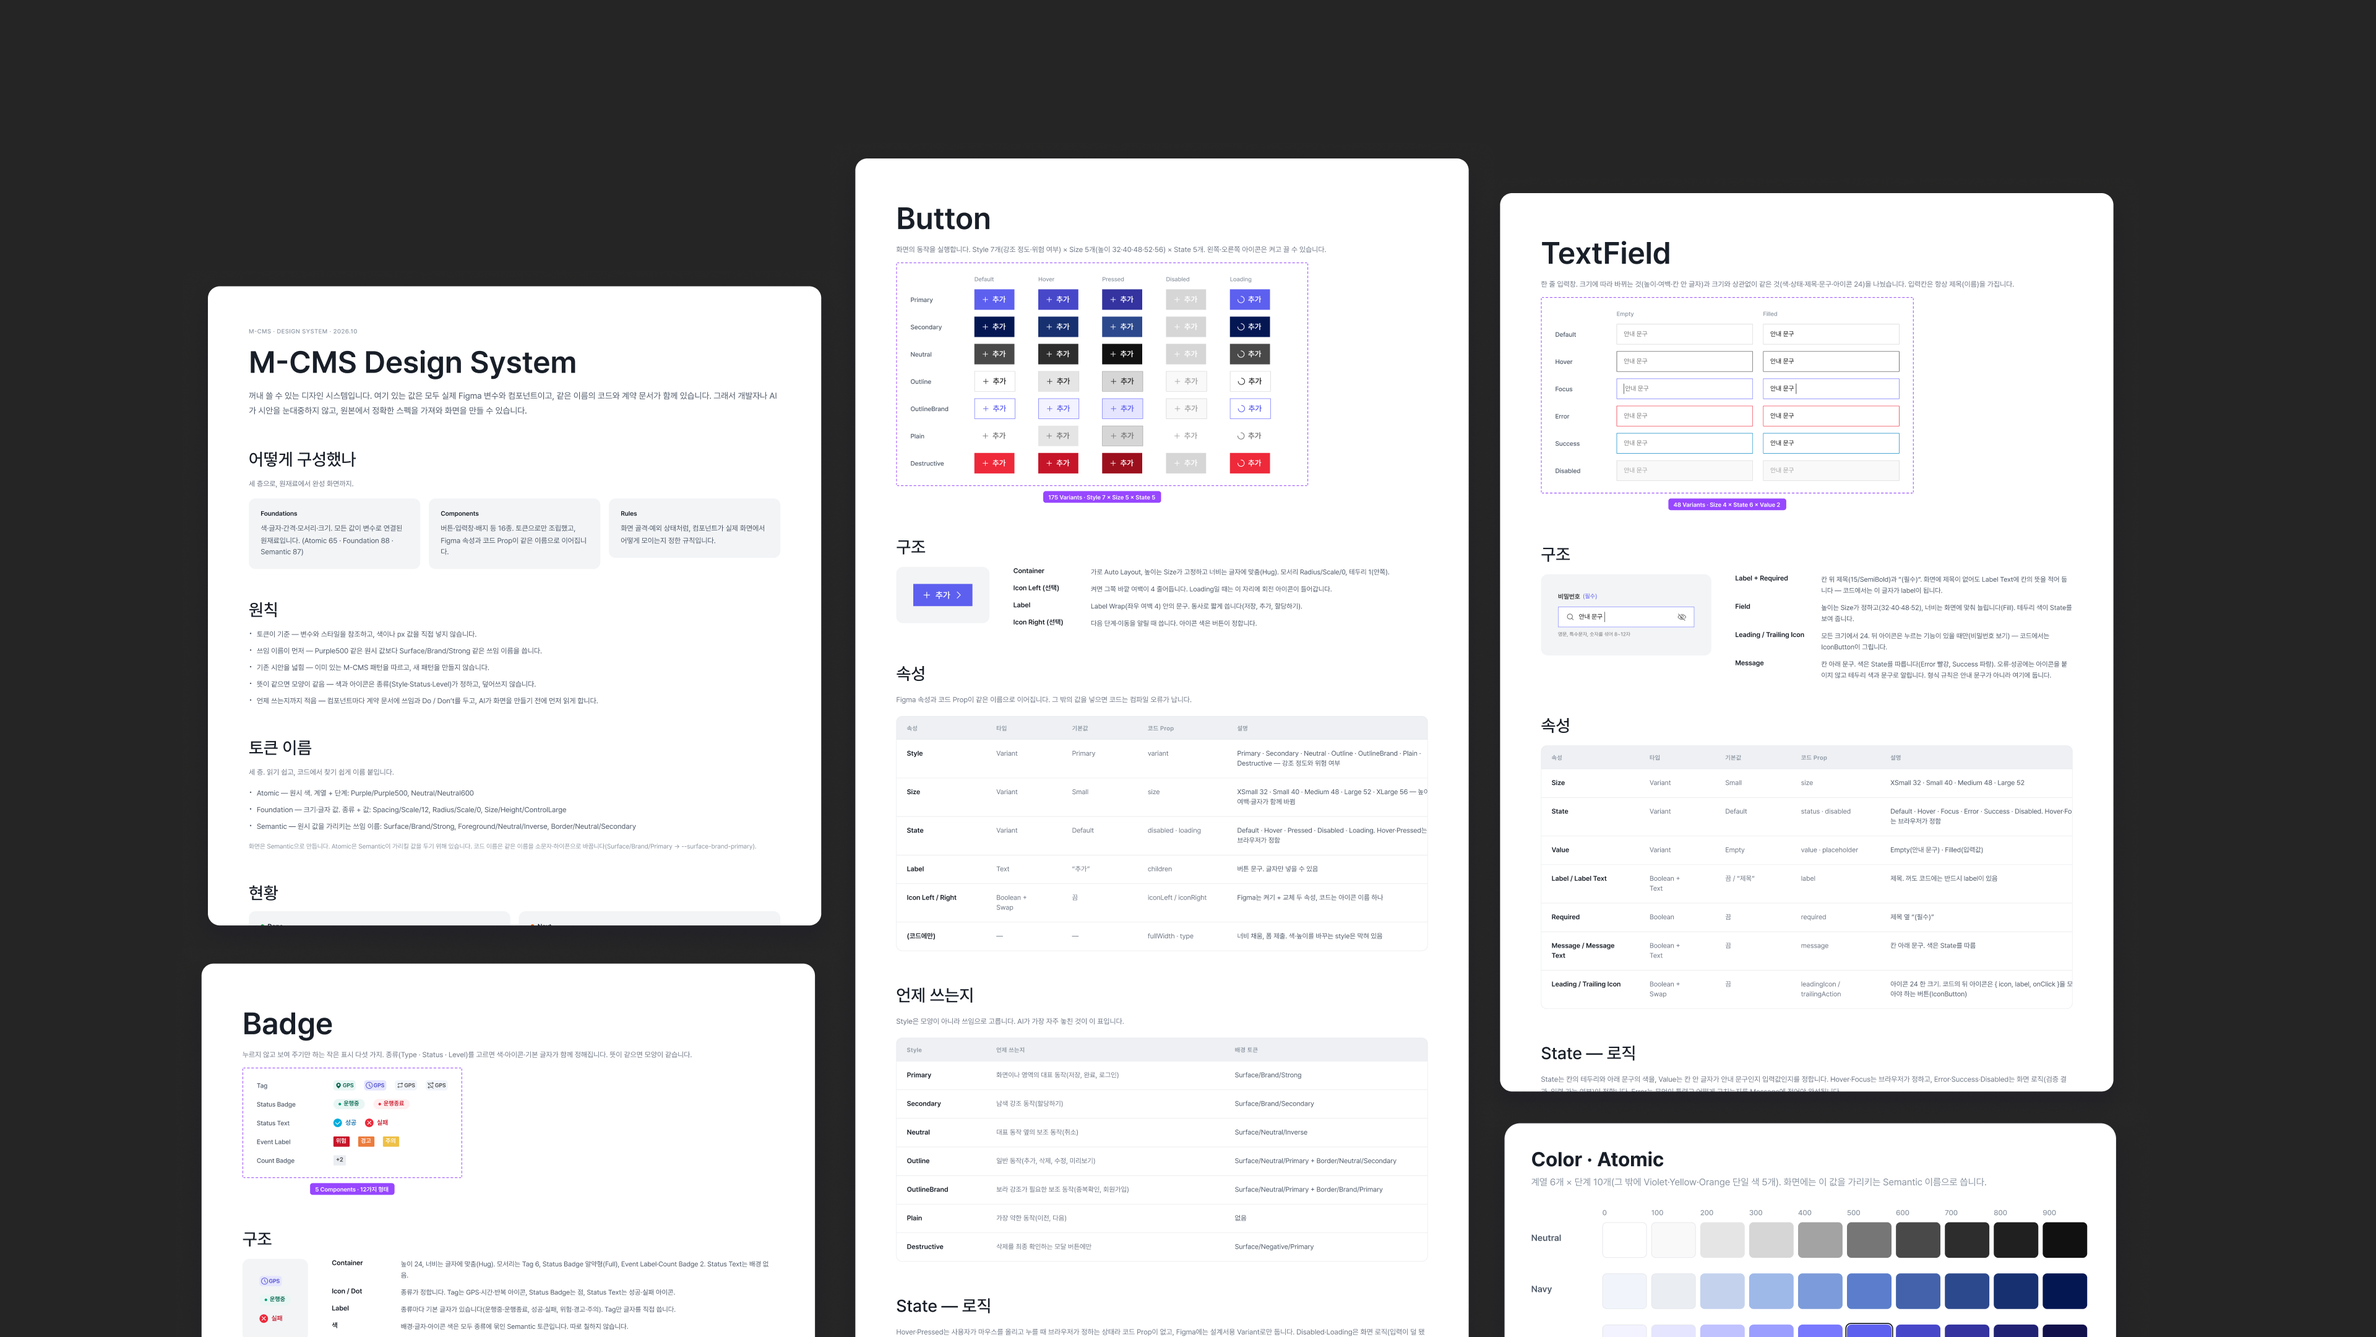
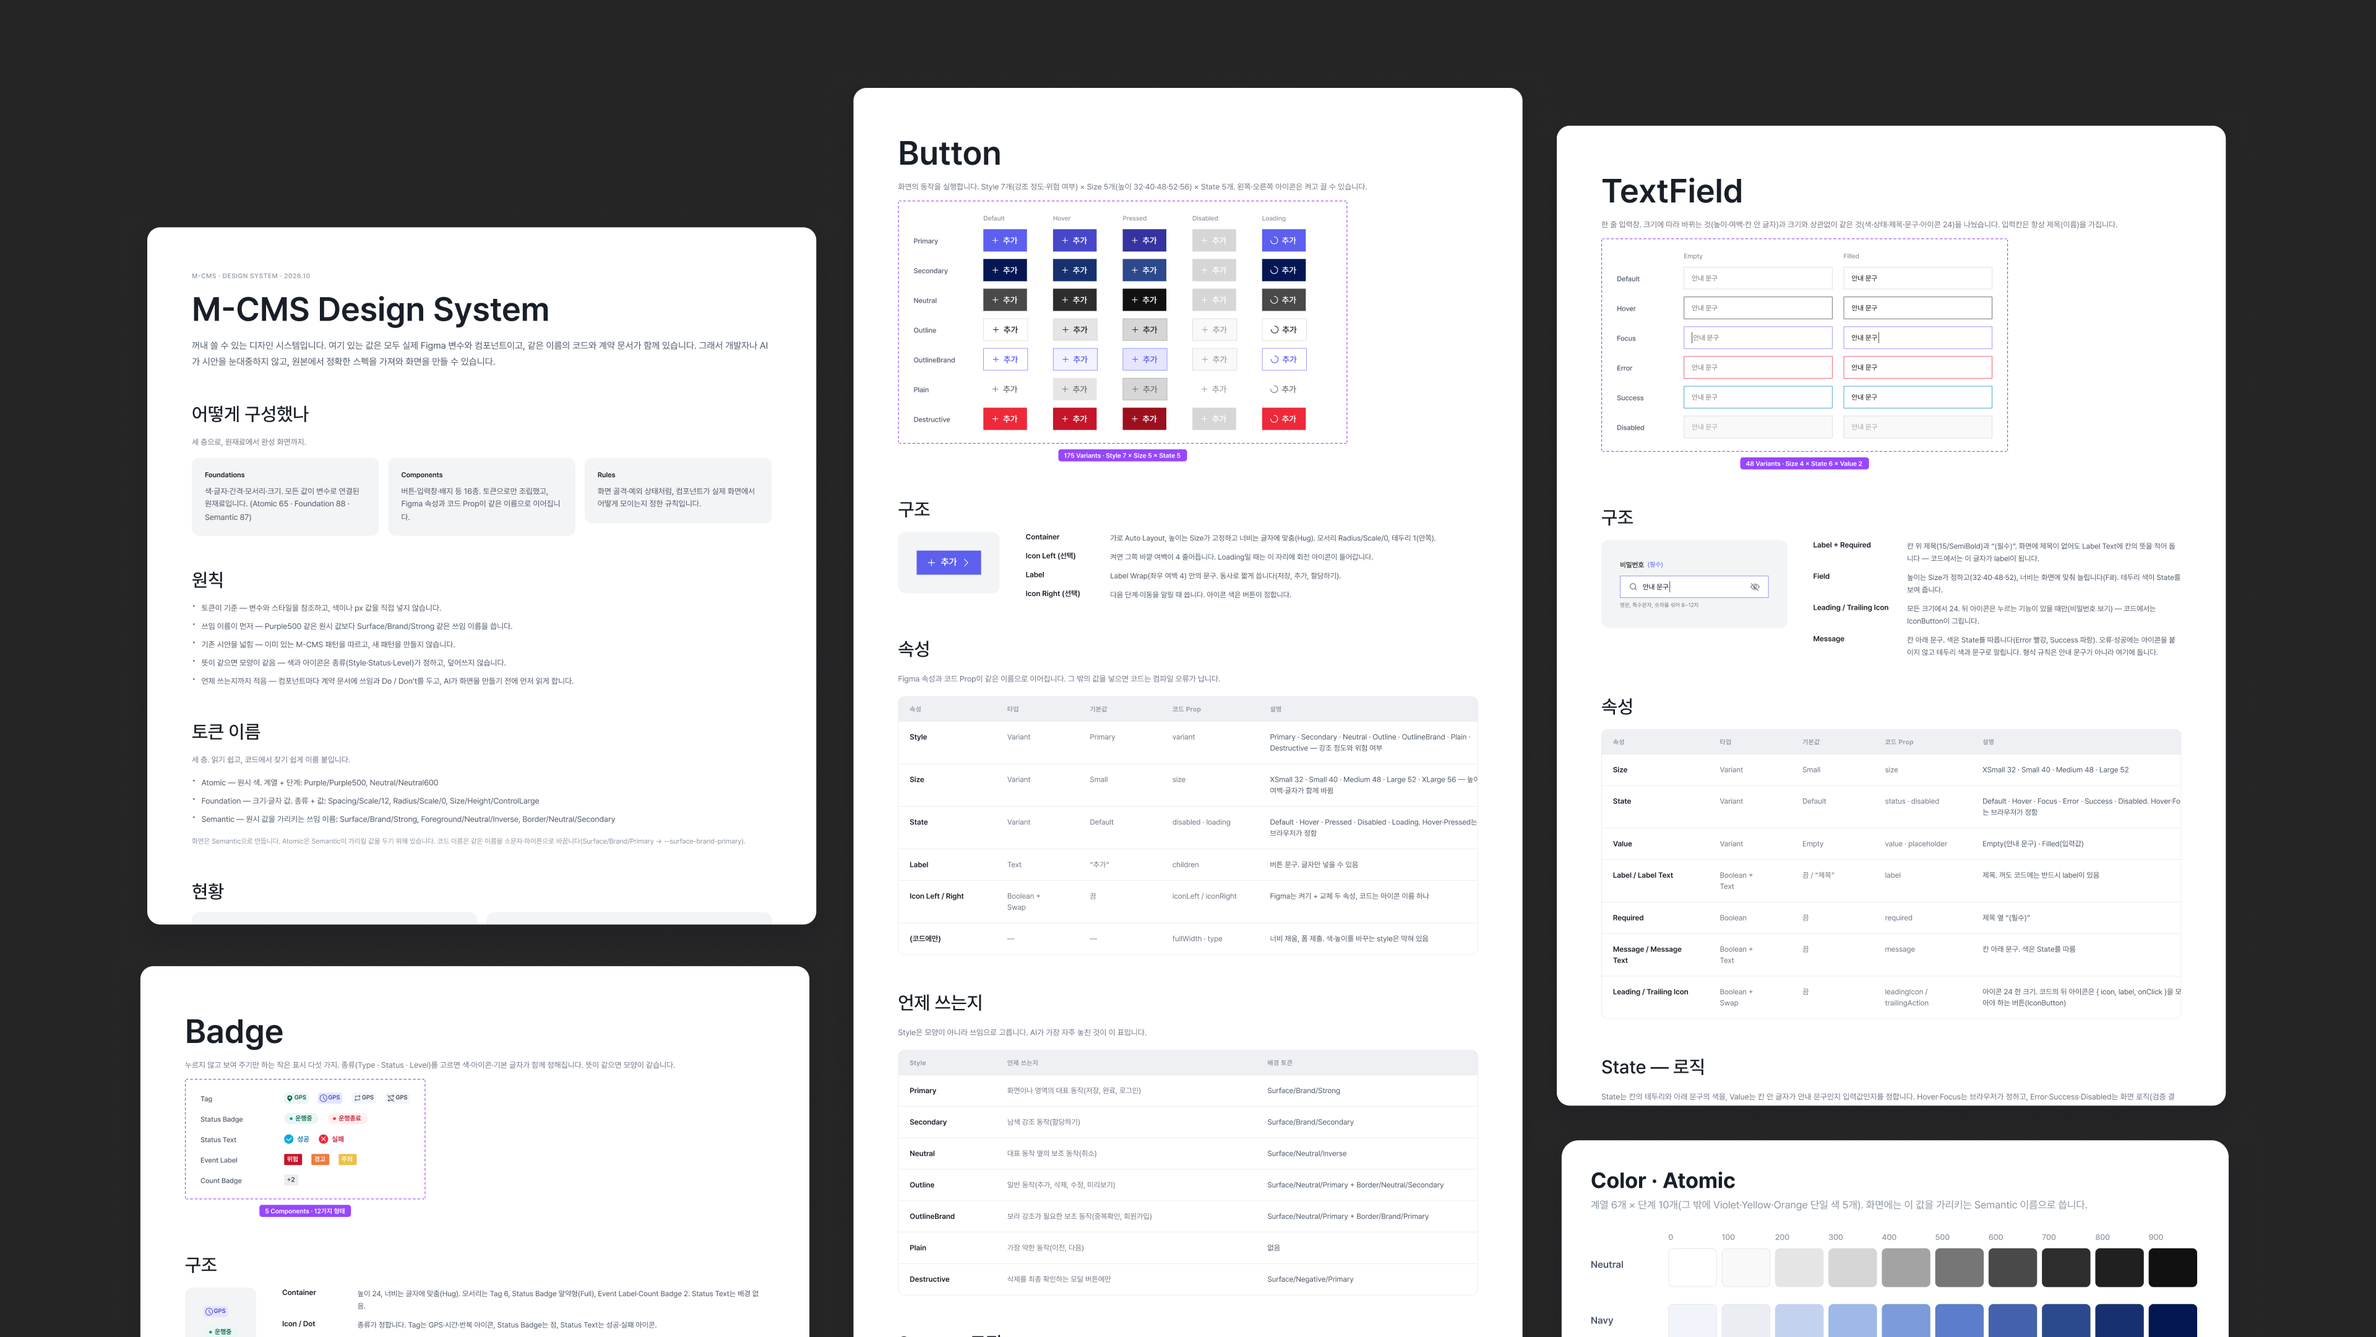
feat: reorder AI Projects category and refresh project cover images
- AI Projects order: 청모픽 → M-CMS 디자인 시스템 AI 최적화 → HCI 칼리지 2기
- Add dedicated cover images for 청모픽, 따릉이, M-CMS, 명언제과점, 스포츠 메타버스
- Fix stray tag on M-CMS entry

diff --git a/work-data.js b/work-data.js
@@ -318,6 +318,81 @@ const WORKS = [
     metrics: [],
   },
   {
+    t: "청모픽 — 청첩장 모임 식당 추천 서비스",
+    cat: "AI Projects",
+    y: "2026",
+    co: "개인 프로젝트",
+    role: "프로덕트 디자이너 (리서치·기획·UX/UI·AI 활용 개발, 데이터 분석 100%)",
+    ty: "모바일 웹 (실서비스)",
+    slug: "chungmopick-restaurant-recommendation",
+    images: [
+      "images/AI_W_restaurant/AI_cover.png",
+      "images/AI_W_restaurant/AI_1.png",
+      "images/AI_W_restaurant/AI_2.png",
+      "images/AI_W_restaurant/AI_3.png",
+      "images/AI_W_restaurant/AI_4.png",
+      "images/AI_W_restaurant/AI_5.png",
+      "images/AI_W_restaurant/AI_6.png",
+      "images/AI_W_restaurant/AI_7.png",
+      "images/AI_W_restaurant/AI_8.png",
+      "images/AI_W_restaurant/AI_9.png",
+    ],
+    sum: "청첩장 모임에 맞는 식당을 추천하는 서비스를 AI로 12일 만에 만들고, 행동 데이터와 인터뷰로 '왜 이 식당인지' 알 수 없는 추천 문제를 찾아 개선했습니다.",
+    tags: ["AI Collaboration", "Mobile Web", "User Research", "Data-Driven"],
+    aiHighlights: [
+      "관계마다 장소 기준이 다른 청첩장 모임 문제를, <span class=\"hl\">기획부터 배포까지 12일 만에 1인으로 만든 MVP</span>로 직접 검증했습니다.",
+      "설문과 다른 실제 행동 데이터를 발견하고, 인터뷰 6명으로 <span class=\"hl\">'추천 이유가 안 보인다'는 진짜 문제</span>를 다시 찾아냈습니다.",
+      "2차 개선에서는 <span class=\"hl\">사진으로 분위기를 고르고 데이터 근거로 추천 이유를 설명</span>하도록 바꿨습니다.",
+    ],
+    facts: [
+      { k: "배경", v: "관계마다 장소 기준이 달라 '내 모임에 맞는 곳인지' 판단하기 어려운 청첩장 모임 식당 선택을 돕는 서비스를 직접 만들었습니다. 사전 설문에서 주최자 15명 중 11명(73.3%)이 <span class=\"hl\">'관계에 따라 기준이 달라진다'</span>고 답했습니다." },
+      { k: "문제", v: "설문에서는 73.3%가 '핵심 조건 먼저, 결과 보며 조정'을 선호했지만, 설문은 선호만 보여준다고 판단해 <span class=\"hl\">8단계 입력 MVP를 그대로 배포해 실제 행동을 관찰</span>했습니다." },
+      { k: "접근방식", v: "PRD 기획부터 추천 로직, 디자인, 배포까지 <span class=\"hl\">Claude와 Claude Code로 12일 만에 1인 개발</span>했습니다. Mixpanel로 계측하고 Vercel로 배포한 뒤, 입력 완료 사용자 6명을 인터뷰해 '질문 수는 괜찮지만 추천 이유를 알 수 없다'는 문제를 재발견했습니다." },
+      { k: "결과", v: "2차 개선에서 <span class=\"hl\">분위기·음식 조건을 사진으로 선택</span>하게 하고, 입력 조건과 식당 데이터를 근거로 '왜 이 식당인지' 설명하는 문구를 추가했습니다. 2차 개선 효과는 아직 측정 전입니다." },
+    ],
+    metrics: [
+      { n: "12일", c: "기획부터 1차 MVP 배포까지" },
+      { n: "79명", c: "조건 입력 시작 사용자 (60.8% 완주)" },
+      { n: "54.7%", c: "결과 확인 후 식당 카드 클릭률" },
+    ],
+  },
+  {
+    t: "M-CMS 디자인 시스템 AI 최적화",
+    cat: "AI Projects",
+    y: "2026",
+    co: "개인 프로젝트",
+    role: "UXUI 디자이너 (문제 정의·시스템 설계·실험 설계 100%, Claude Code 활용)",
+    ty: "디자인 시스템",
+    slug: "mcms-design-system-ai-optimization",
+    images: [
+      "images/AI_DesignSystem/DS_cover.png",
+      "images/AI_DesignSystem/DS_1.png",
+      "images/AI_DesignSystem/DS_2.png",
+      "images/AI_DesignSystem/DS_3.png",
+      "images/AI_DesignSystem/DS_4.png",
+      "images/AI_DesignSystem/DS_5.png",
+      "images/AI_DesignSystem/DS_6.png",
+    ],
+    sum: "개발자가 AI로 만든 신규 화면이 기존 디자인 기준과 어긋나는 문제를 보고, 디자인 토큰과 계약 문서로 AI 협업 기준을 다시 만들어 블라인드 검수 실험으로 효과를 검증했습니다.",
+    tags: ["AI Collaboration", "Design System", "Experiment"],
+    aiHighlights: [
+      "개발자가 AI로 만든 신규 화면이 기존 M-CMS 규칙과 어긋나자, 화면 58개를 전수 측정해 <span class=\"hl\">디자인 토큰 240개·컴포넌트 16종</span>으로 정리했습니다.",
+      "같은 요청문을 세 조건으로 비교한 블라인드 검수에서, <span class=\"hl\">계약 문서를 더하자 통과율이 2/15 → 10/15로 올랐습니다</span>.",
+      "남은 실패의 원인이 <span class=\"hl\">시스템에 없던 '비활성' 상태라는 것까지 찾아내</span> 상태 배지 컴포넌트를 직접 보완했습니다.",
+    ],
+    facts: [
+      { k: "배경", v: "서비스 확장으로 신규 화면 구현이 필요했지만 디자이너 2명 모두 우선순위가 높은 업무 중이었고, 개발팀은 기존 Figma UI를 참고해 <span class=\"hl\">AI로 화면을 먼저 구현</span>했습니다." },
+      { k: "문제", v: "같은 M-CMS 화면인데도 메뉴·버튼·상태 표현이 기존과 달라졌습니다. <span class=\"hl\">사용 기준이 문서로 남아있지 않아</span> 화면마다 다시 검수하고 수정을 요청해야 했고, Figma에는 화면별 적용 기준도 없었습니다." },
+      { k: "접근방식", v: "값 조사 → 컴포넌트 설계 → 제작 → 계약 문서 네 단계를 반복하며, 각 단계마다 <span class=\"hl\">Claude Code가 만든 결과를 직접 승인</span>한 뒤 다음 단계로 넘어갔습니다. 화면 58개의 색·크기 값을 전수 측정해 토큰 240개로 정리하고, 컴포넌트 16종과 계약 문서 15개를 만들었습니다." },
+      { k: "결과", v: "같은 요청문을 A(기존 자료만)·B(+토큰·컴포넌트 코드)·C(+계약 문서) 세 조건으로 비교한 블라인드 검수에서 <span class=\"hl\">통과율이 2/15 → 5/15 → 10/15로 올랐습니다</span>. 남은 실패 3개는 시스템에 없던 '비활성' 상태 때문이었고, 상태 배지 컴포넌트에 이를 추가해 해결했습니다." },
+    ],
+    metrics: [
+      { n: "10/15", c: "계약 문서 조건의 블라인드 검수 통과 (기존 2/15)" },
+      { n: "83%", c: "사용 기준 일치율 (기존 17%)" },
+      { n: "240개", c: "정리된 디자인 토큰 (기존 0개)" },
+    ],
+  },
+  {
     t: "HCI 칼리지 2기 — AI 신뢰 연구",
     cat: "AI Projects",
     y: "2023—2024",
@@ -364,7 +439,8 @@ const WORKS = [
     ty: "모바일",
     slug: "quote-bakery-daily-quote-service",
     images: [
-      "images/quote-bakery-daily-quote-service/01_cover.png",
+      "images/quote-bakery-daily-quote-service/bakery_cover.png",
+      "images/quote-bakery-daily-quote-service/01.png",
       "images/quote-bakery-daily-quote-service/02.png",
       "images/quote-bakery-daily-quote-service/03.png",
       "images/quote-bakery-daily-quote-service/04.png",
@@ -399,6 +475,7 @@ const WORKS = [
     ty: "모바일 (프로토타입)",
     slug: "seoul-bike-ddareungi-renewal",
     images: [
+      "images/Bike/Bike_cover.png",
       "images/Bike/Bike_1.png",
       "images/Bike/Bike_2.png",
       "images/Bike/Bike_3.png",
@@ -423,80 +500,6 @@ const WORKS = [
     metrics: [],
   },
   {
-    t: "M-CMS 디자인 시스템 AI 최적화",
-    cat: "AI Projects",
-    y: "2026",
-    co: "개인 프로젝트",
-    role: "UXUI 디자이너 (문제 정의·시스템 설계·실험 설계 100%, Claude Code 활용)",
-    ty: "디자인 시스템",
-    slug: "mcms-design-system-ai-optimization",
-    images: [
-      "images/AI_DesignSystem/DS_cover.png",
-      "images/AI_DesignSystem/DS_1.png",
-      "images/AI_DesignSystem/DS_2.png",
-      "images/AI_DesignSystem/DS_3.png",
-      "images/AI_DesignSystem/DS_4.png",
-      "images/AI_DesignSystem/DS_5.png",
-      "images/AI_DesignSystem/DS_6.png",
-    ],
-    sum: "개발자가 AI로 만든 신규 화면이 기존 디자인 기준과 어긋나는 문제를 보고, 디자인 토큰과 계약 문서로 AI 협업 기준을 다시 만들어 블라인드 검수 실험으로 효과를 검증했습니다.",
-    tags: ["Side Project", "AI Collaboration", "Design System", "Experiment"],
-    aiHighlights: [
-      "개발자가 AI로 만든 신규 화면이 기존 M-CMS 규칙과 어긋나자, 화면 58개를 전수 측정해 <span class=\"hl\">디자인 토큰 240개·컴포넌트 16종</span>으로 정리했습니다.",
-      "같은 요청문을 세 조건으로 비교한 블라인드 검수에서, <span class=\"hl\">계약 문서를 더하자 통과율이 2/15 → 10/15로 올랐습니다</span>.",
-      "남은 실패의 원인이 <span class=\"hl\">시스템에 없던 '비활성' 상태라는 것까지 찾아내</span> 상태 배지 컴포넌트를 직접 보완했습니다.",
-    ],
-    facts: [
-      { k: "배경", v: "서비스 확장으로 신규 화면 구현이 필요했지만 디자이너 2명 모두 우선순위가 높은 업무 중이었고, 개발팀은 기존 Figma UI를 참고해 <span class=\"hl\">AI로 화면을 먼저 구현</span>했습니다." },
-      { k: "문제", v: "같은 M-CMS 화면인데도 메뉴·버튼·상태 표현이 기존과 달라졌습니다. <span class=\"hl\">사용 기준이 문서로 남아있지 않아</span> 화면마다 다시 검수하고 수정을 요청해야 했고, Figma에는 화면별 적용 기준도 없었습니다." },
-      { k: "접근방식", v: "값 조사 → 컴포넌트 설계 → 제작 → 계약 문서 네 단계를 반복하며, 각 단계마다 <span class=\"hl\">Claude Code가 만든 결과를 직접 승인</span>한 뒤 다음 단계로 넘어갔습니다. 화면 58개의 색·크기 값을 전수 측정해 토큰 240개로 정리하고, 컴포넌트 16종과 계약 문서 15개를 만들었습니다." },
-      { k: "결과", v: "같은 요청문을 A(기존 자료만)·B(+토큰·컴포넌트 코드)·C(+계약 문서) 세 조건으로 비교한 블라인드 검수에서 <span class=\"hl\">통과율이 2/15 → 5/15 → 10/15로 올랐습니다</span>. 남은 실패 3개는 시스템에 없던 '비활성' 상태 때문이었고, 상태 배지 컴포넌트에 이를 추가해 해결했습니다." },
-    ],
-    metrics: [
-      { n: "10/15", c: "계약 문서 조건의 블라인드 검수 통과 (기존 2/15)" },
-      { n: "83%", c: "사용 기준 일치율 (기존 17%)" },
-      { n: "240개", c: "정리된 디자인 토큰 (기존 0개)" },
-    ],
-  },
-  {
-    t: "청모픽 — 청첩장 모임 식당 추천 서비스",
-    cat: "AI Projects",
-    y: "2026",
-    co: "개인 프로젝트",
-    role: "프로덕트 디자이너 (리서치·기획·UX/UI·AI 활용 개발, 데이터 분석 100%)",
-    ty: "모바일 웹 (실서비스)",
-    slug: "chungmopick-restaurant-recommendation",
-    images: [
-      "images/AI_W_restaurant/AI_1.png",
-      "images/AI_W_restaurant/AI_2.png",
-      "images/AI_W_restaurant/AI_3.png",
-      "images/AI_W_restaurant/AI_4.png",
-      "images/AI_W_restaurant/AI_5.png",
-      "images/AI_W_restaurant/AI_6.png",
-      "images/AI_W_restaurant/AI_7.png",
-      "images/AI_W_restaurant/AI_8.png",
-      "images/AI_W_restaurant/AI_9.png",
-    ],
-    sum: "청첩장 모임에 맞는 식당을 추천하는 서비스를 AI로 12일 만에 만들고, 행동 데이터와 인터뷰로 '왜 이 식당인지' 알 수 없는 추천 문제를 찾아 개선했습니다.",
-    tags: ["AI Collaboration", "Mobile Web", "User Research", "Data-Driven"],
-    aiHighlights: [
-      "관계마다 장소 기준이 다른 청첩장 모임 문제를, <span class=\"hl\">기획부터 배포까지 12일 만에 1인으로 만든 MVP</span>로 직접 검증했습니다.",
-      "설문과 다른 실제 행동 데이터를 발견하고, 인터뷰 6명으로 <span class=\"hl\">'추천 이유가 안 보인다'는 진짜 문제</span>를 다시 찾아냈습니다.",
-      "2차 개선에서는 <span class=\"hl\">사진으로 분위기를 고르고 데이터 근거로 추천 이유를 설명</span>하도록 바꿨습니다.",
-    ],
-    facts: [
-      { k: "배경", v: "관계마다 장소 기준이 달라 '내 모임에 맞는 곳인지' 판단하기 어려운 청첩장 모임 식당 선택을 돕는 서비스를 직접 만들었습니다. 사전 설문에서 주최자 15명 중 11명(73.3%)이 <span class=\"hl\">'관계에 따라 기준이 달라진다'</span>고 답했습니다." },
-      { k: "문제", v: "설문에서는 73.3%가 '핵심 조건 먼저, 결과 보며 조정'을 선호했지만, 설문은 선호만 보여준다고 판단해 <span class=\"hl\">8단계 입력 MVP를 그대로 배포해 실제 행동을 관찰</span>했습니다." },
-      { k: "접근방식", v: "PRD 기획부터 추천 로직, 디자인, 배포까지 <span class=\"hl\">Claude와 Claude Code로 12일 만에 1인 개발</span>했습니다. Mixpanel로 계측하고 Vercel로 배포한 뒤, 입력 완료 사용자 6명을 인터뷰해 '질문 수는 괜찮지만 추천 이유를 알 수 없다'는 문제를 재발견했습니다." },
-      { k: "결과", v: "2차 개선에서 <span class=\"hl\">분위기·음식 조건을 사진으로 선택</span>하게 하고, 입력 조건과 식당 데이터를 근거로 '왜 이 식당인지' 설명하는 문구를 추가했습니다. 2차 개선 효과는 아직 측정 전입니다." },
-    ],
-    metrics: [
-      { n: "12일", c: "기획부터 1차 MVP 배포까지" },
-      { n: "79명", c: "조건 입력 시작 사용자 (60.8% 완주)" },
-      { n: "54.7%", c: "결과 확인 후 식당 카드 클릭률" },
-    ],
-  },
-  {
     t: "스포츠 생중계 메타버스 서비스",
     cat: "Side Projects",
     y: "",
@@ -505,6 +508,7 @@ const WORKS = [
     ty: "",
     slug: "sports-live-broadcast-metaverse-service",
     images: [
+      "images/sports-live-broadcast-metaverse-service/Meta_cover.png",
       "images/sports-live-broadcast-metaverse-service/Meta_01.png",
       "images/sports-live-broadcast-metaverse-service/Meta_02.png",
       "images/sports-live-broadcast-metaverse-service/Meta_03.png",
